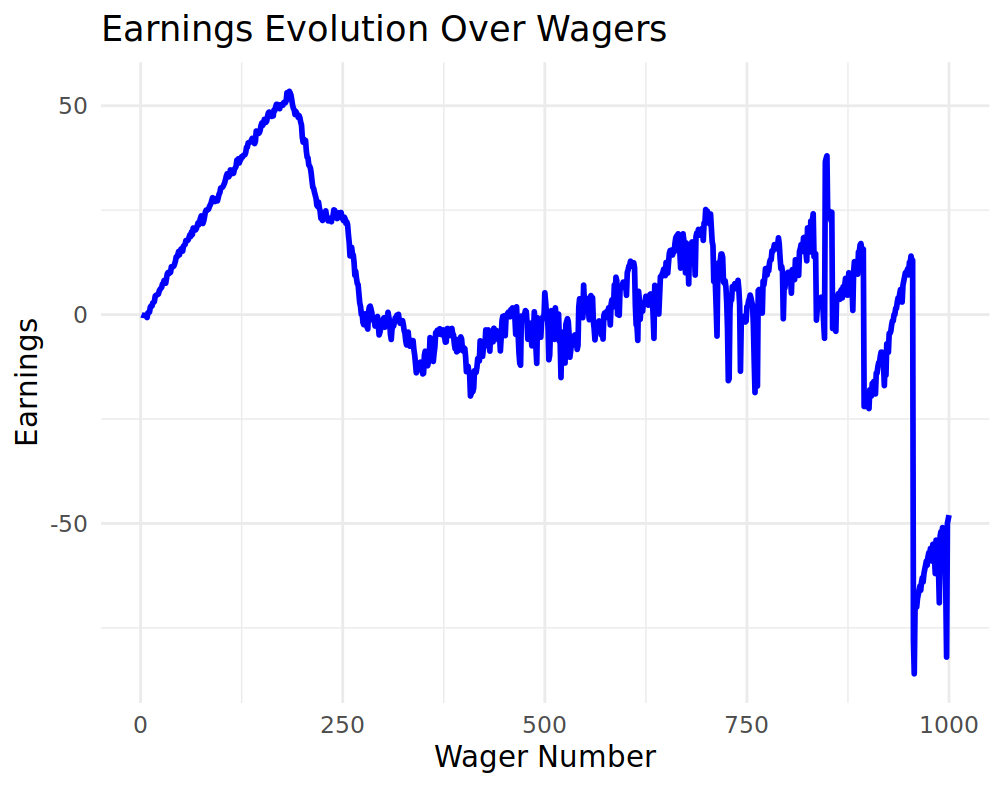
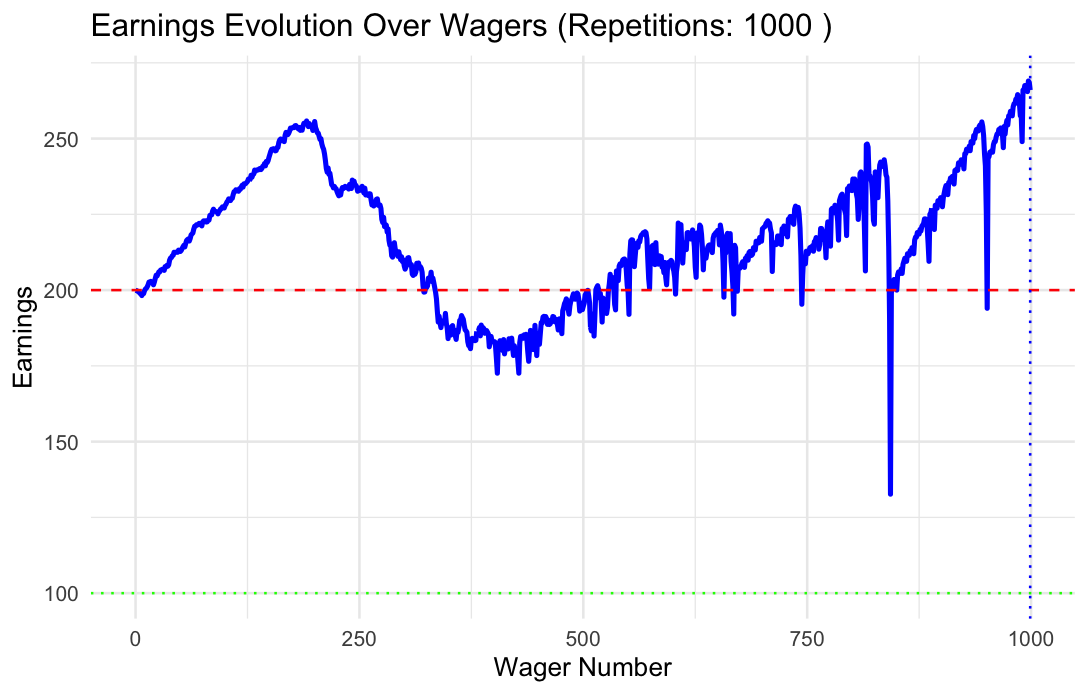
hw16

diff --git a/16-roulette-simulation/writeup.md b/16-roulette-simulation/writeup.md
@@ -1,68 +1,78 @@
 # Homework 16
-## Earnings evolvement over wagers
+## Earnings evolvement over number of games
 
 I used the following code to generate the average earnings:
 ``````
 # Set the parameters
-starting_budget <- 200
-winning_threshold <- 300
-max_games <- 1000
-max_wager <- 100
-R <- 5000  # Number of replicates
-output <- rep(NA, R)
-
-# Create a matrix to store the earnings data for all replicates
-earnings_matrix <- matrix(NA, nrow = R, ncol = max_games)
-
-# Run multiple replicates and store earnings data
-for (r in 1:R) {
-  simulation_result <- one_series(max_games, starting_budget, winning_threshold, max_wager)
-  earnings <- simulation_result$ending_budget - starting_budget
-  # Pad earnings with NAs to match max_games
-  earnings <- c(earnings, rep(NA, max_games - length(earnings)))
-  earnings_matrix[r, ] <- earnings
-}
-
-# Create a line plot to visualize earnings over wagers
-library(ggplot2)
-earnings_df <- data.frame(GameIndex = 1:max_games, Earnings = colMeans(earnings_matrix, na.rm = TRUE))
-ggplot(earnings_df, aes(x = GameIndex, y = Earnings)) +
-  geom_line(size = 1, color = "blue") +
-  labs(x = "Wager Number", y = "Earnings") +
-  ggtitle("Earnings Evolution Over Wagers") +
-  theme_minimal()
+  starting_budget <- 200
+  winning_threshold <- 300
+  max_games <- 1000
+  max_wager <- 100
+  R <- 1000  # Number of replicates
+  output <- rep(NA, R)
+  
+  # Create a matrix to store the earnings data for all replicates
+  earnings_matrix <- matrix(NA, nrow = R, ncol = max_games)
+  
+  # Run multiple replicates and store earnings data
+  for (r in 1:R) {
+    simulation_result <- one_series(max_games, starting_budget, winning_threshold, max_wager)
+    earnings <- simulation_result$ending_budget  # No need to subtract starting budget
+    # Pad earnings with NAs to match max_games
+    earnings <- c(earnings, rep(NA, max_games - length(earnings)))
+    earnings_matrix[r, ] <- earnings
+  }
+  
+  # Create a line plot to visualize earnings over wagers
+  library(ggplot2)
+  earnings_df <- data.frame(GameIndex = 0:(max_games - 1), Earnings = colMeans(earnings_matrix, na.rm = TRUE))
+  
+  ggplot(earnings_df, aes(x = GameIndex, y = Earnings)) +
+    geom_line(size = 1, color = "blue") +
+    labs(x = "Wager Number", y = "Earnings") +
+    ggtitle(paste("Earnings Evolution Over Wagers (Repetitions:", R, ")")) +  # Include the number of repetitions in the title
+    geom_hline(yintercept = starting_budget, linetype = "dashed", color = "red") +  # Set the starting budget line to 200
+    geom_hline(yintercept = winning_threshold - starting_budget, linetype = "dotted", color = "green") +  # Add earnings cap line at $300
+    geom_vline(xintercept = max_games - 1, linetype = "dotted", color = "blue") +  # Max games (number of wagers) on x-axis as dotted
+    theme_minimal()
   
 ``````
 
 ### Explanation:
 
-I'm using R to run a computer simulation of a gambling strategy. First, I decide how much money I start with (the starting budget), how much money I want to win before quitting (the winning threshold), and how many rounds or games I'm willing to play (max games). Additionally, I set a limit on how much I can bet in one game (the max wager). 
+In this code, I set parameters for a computer simulation that models a game with specific rules. These parameters are as follows:
 
-I want to see how this strategy performs in different scenarios, so I'm going to run the simulation several times. The number of times I repeat the simulation is called "R," and in this example, I choose 5000 times. 
+- 'Starting Budget (starting_budget)': The player begins with $200.
+- 'Winning Threshold (winning_threshold)': The player aims to reach $300 in earnings.
+- 'Maximum Games (max_games)': The simulation runs for a maximum of 1000 games.
+- 'Maximum Wager (max_wager)': The player can bet up to $100 in a single round.
+- 'Number of Replicates (R)': The simulation is repeated 1000 times.
 
-I need a way to keep track of the results from each round of gambling. So, I create a big table, or matrix, where I'll store this information. This table is called "earnings_matrix."
+The goal is to observe the player's earnings over multiple iterations, adhering to the defined rules.
 
-For each round of gambling, I use the "one_series" function to simulate how much money I'll have at the end. This function calculates my earnings for each game in the series. I store these earnings in a list. To make sure all my lists are the same length, I add empty spaces (NA values) to them so that they all have as many games as I initially decided (max games).
+The code works as follows:
 
-All of these earnings lists go into my "earnings_matrix" to compare the results later.
+- An 'earnings_matrix' is created to store earnings data for all replicates (1000 rows). Each row represents a game with a maximum of 1000 columns, ensuring uniform data structure.
 
-Now, I want to visualize how my earnings change as I play more games. To do that, I use a library called "ggplot2" to create a line chart. This chart shows the number of games on the bottom (x-axis) and my average earnings on the side (y-axis). 
+- A loop runs the simulation 1000 times, where the 'one_series' function calculates earnings based on the parameters. Earnings are recorded in the 'earnings_matrix,' with padding for consistent dimensions.
 
-As I run the simulation, I found the plots vary significantly as the number of replicates differs. So here are the figures that I created by changing the number of replicates:
+- After all simulations, a line plot is generated using 'ggplot2.' The x-axis shows the number of plays, and the y-axis represents earnings.
 
-- Replicates: 100
+- Axes and the title are labeled, including the number of repetitions (1000).
 
-![image](rep100.png)
+- 'geom_hline' adds a dashed line at the starting budget ($200), showing where the player begins.
 
-- Replicates: 1000
+- 'geom_vline' includes a dotted line at the maximum number of games (1000) to illustrate the limit on wagers.
+
+- The plot's theme is set to 'minimal' for a clear presentation.
+
+This code visualizes how a player's earnings change over repeated plays while considering the defined rules and constraints. It provides insights into potential game outcomes within these parameters:
+
 
 ![image](rep1000.png)
 
-- Replicates: 5000
-
-![image](rep5000.png)
-
-Description: In general, the earnings increase until the wagers reach somewhere near 188, and it declines quickly later. After around 300 wagers, the plot has much zig-zagging.
 
 ## Parameter changing
 
+
+## Limitations of this simulation
